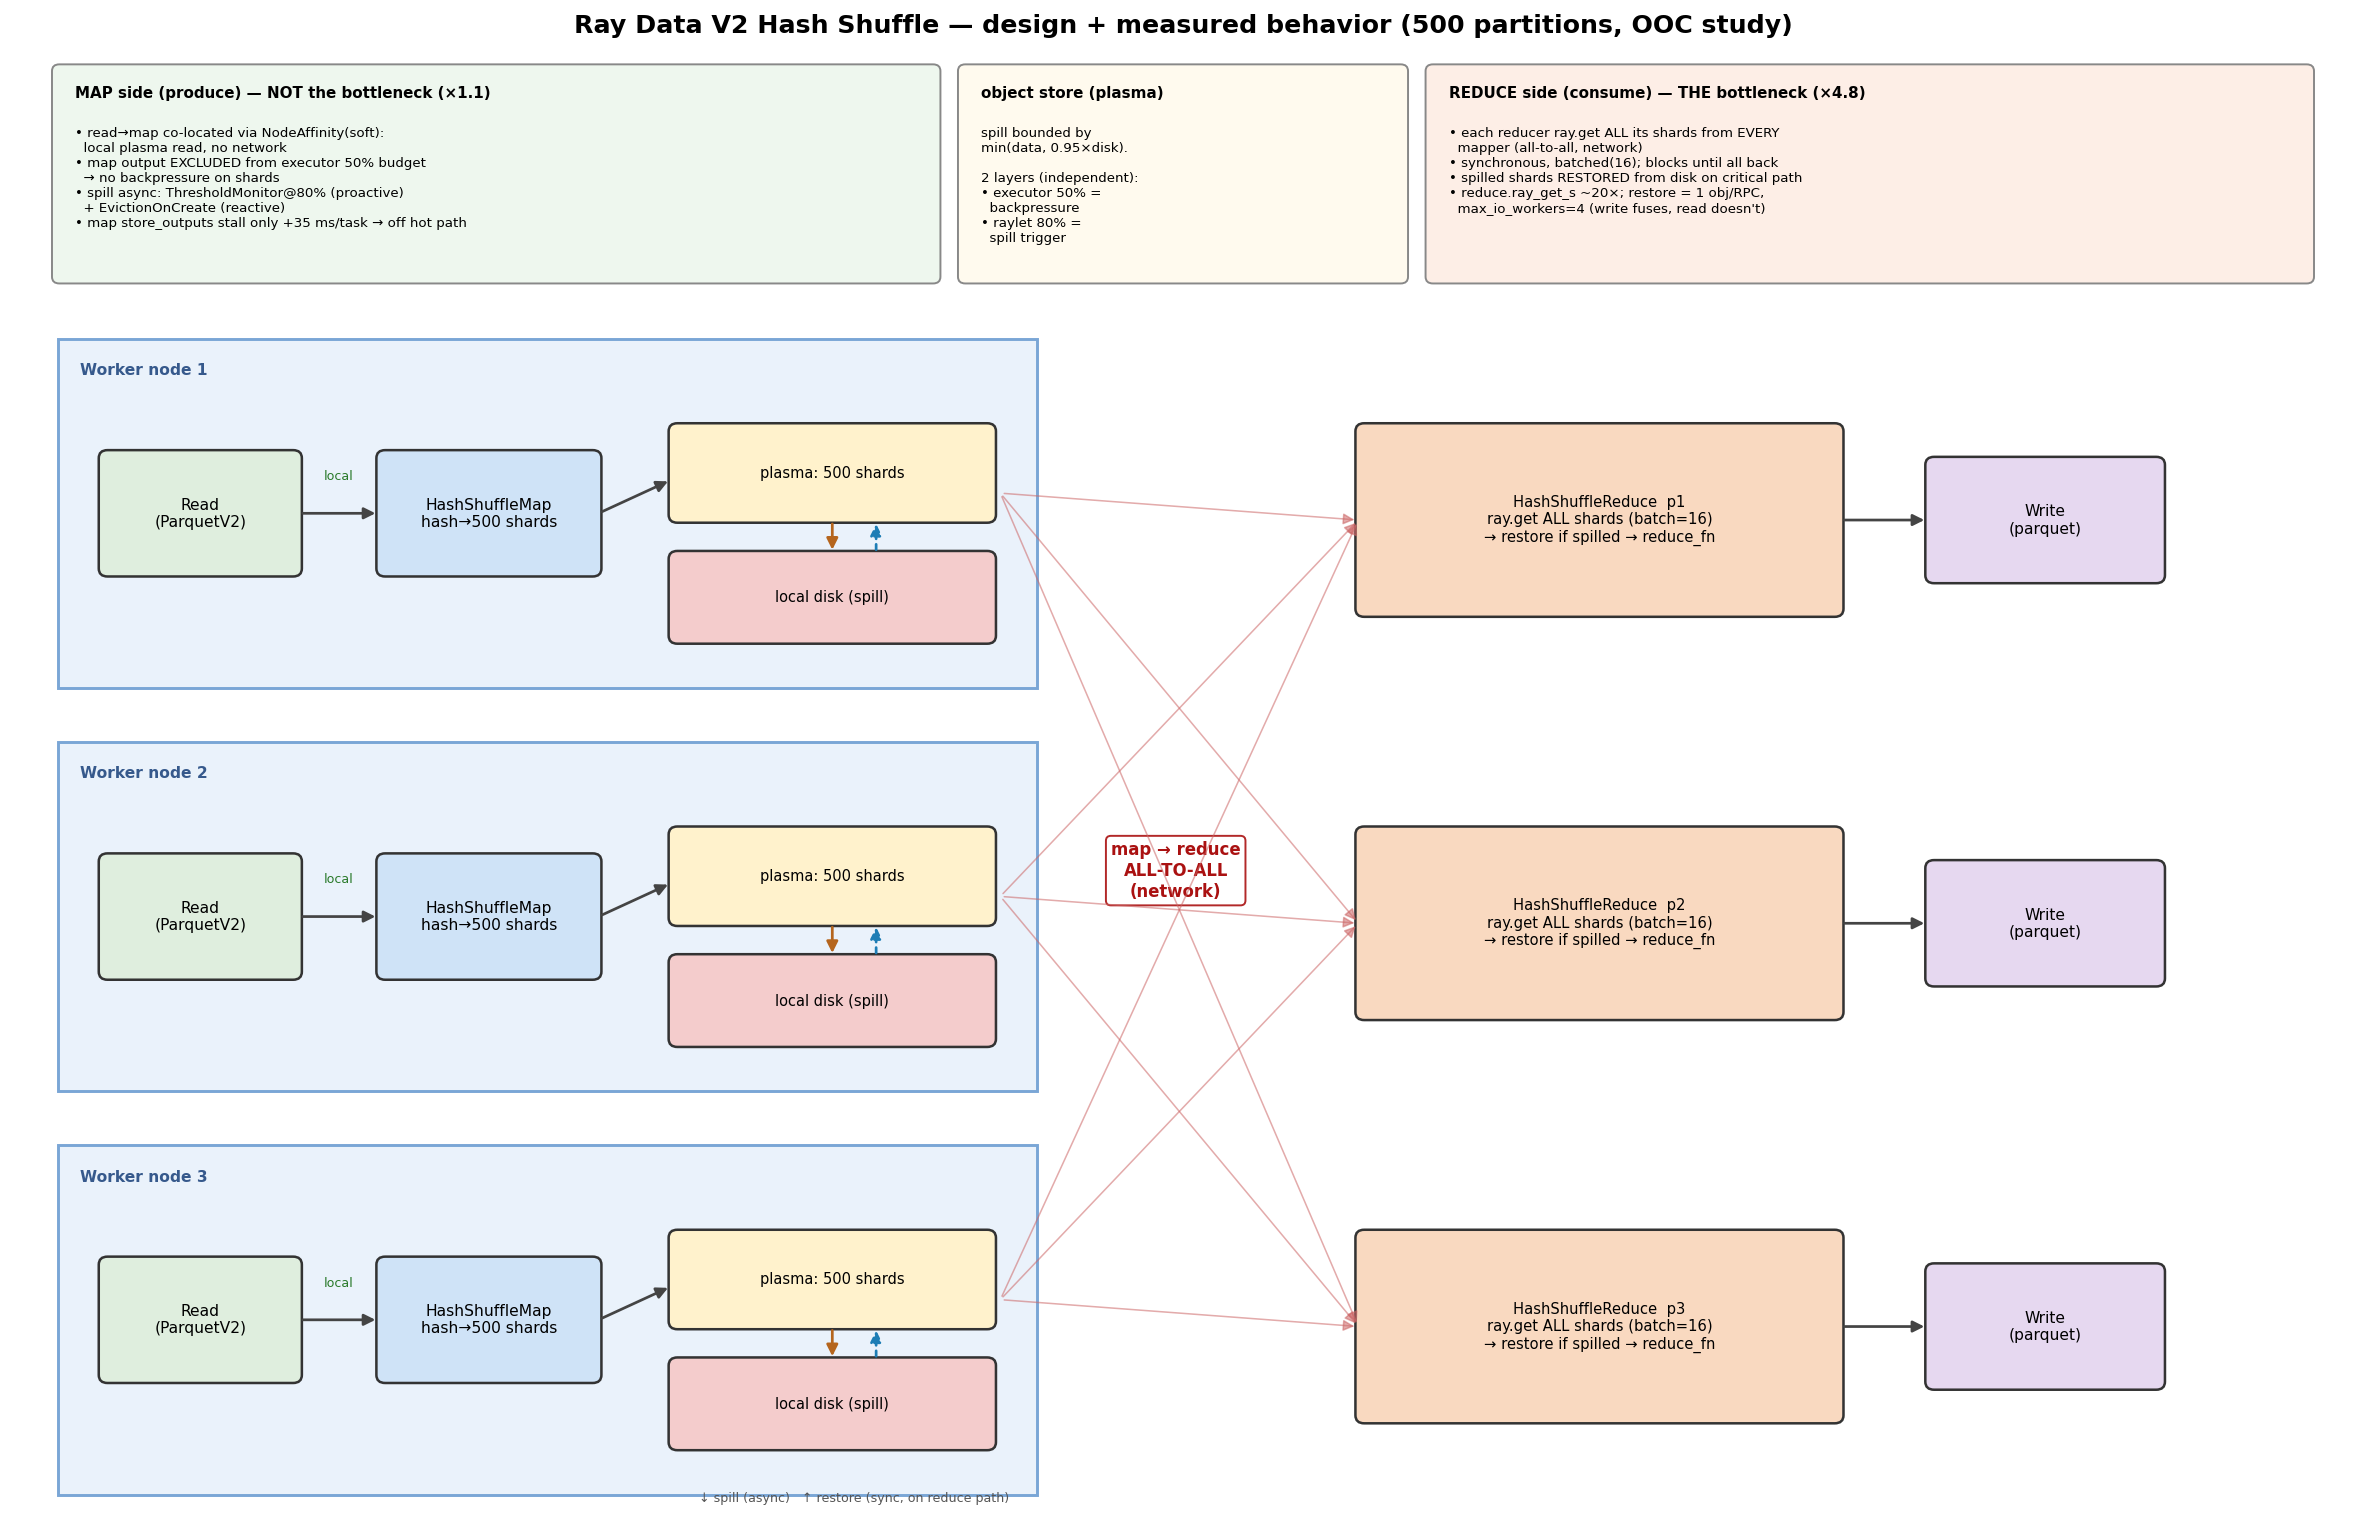
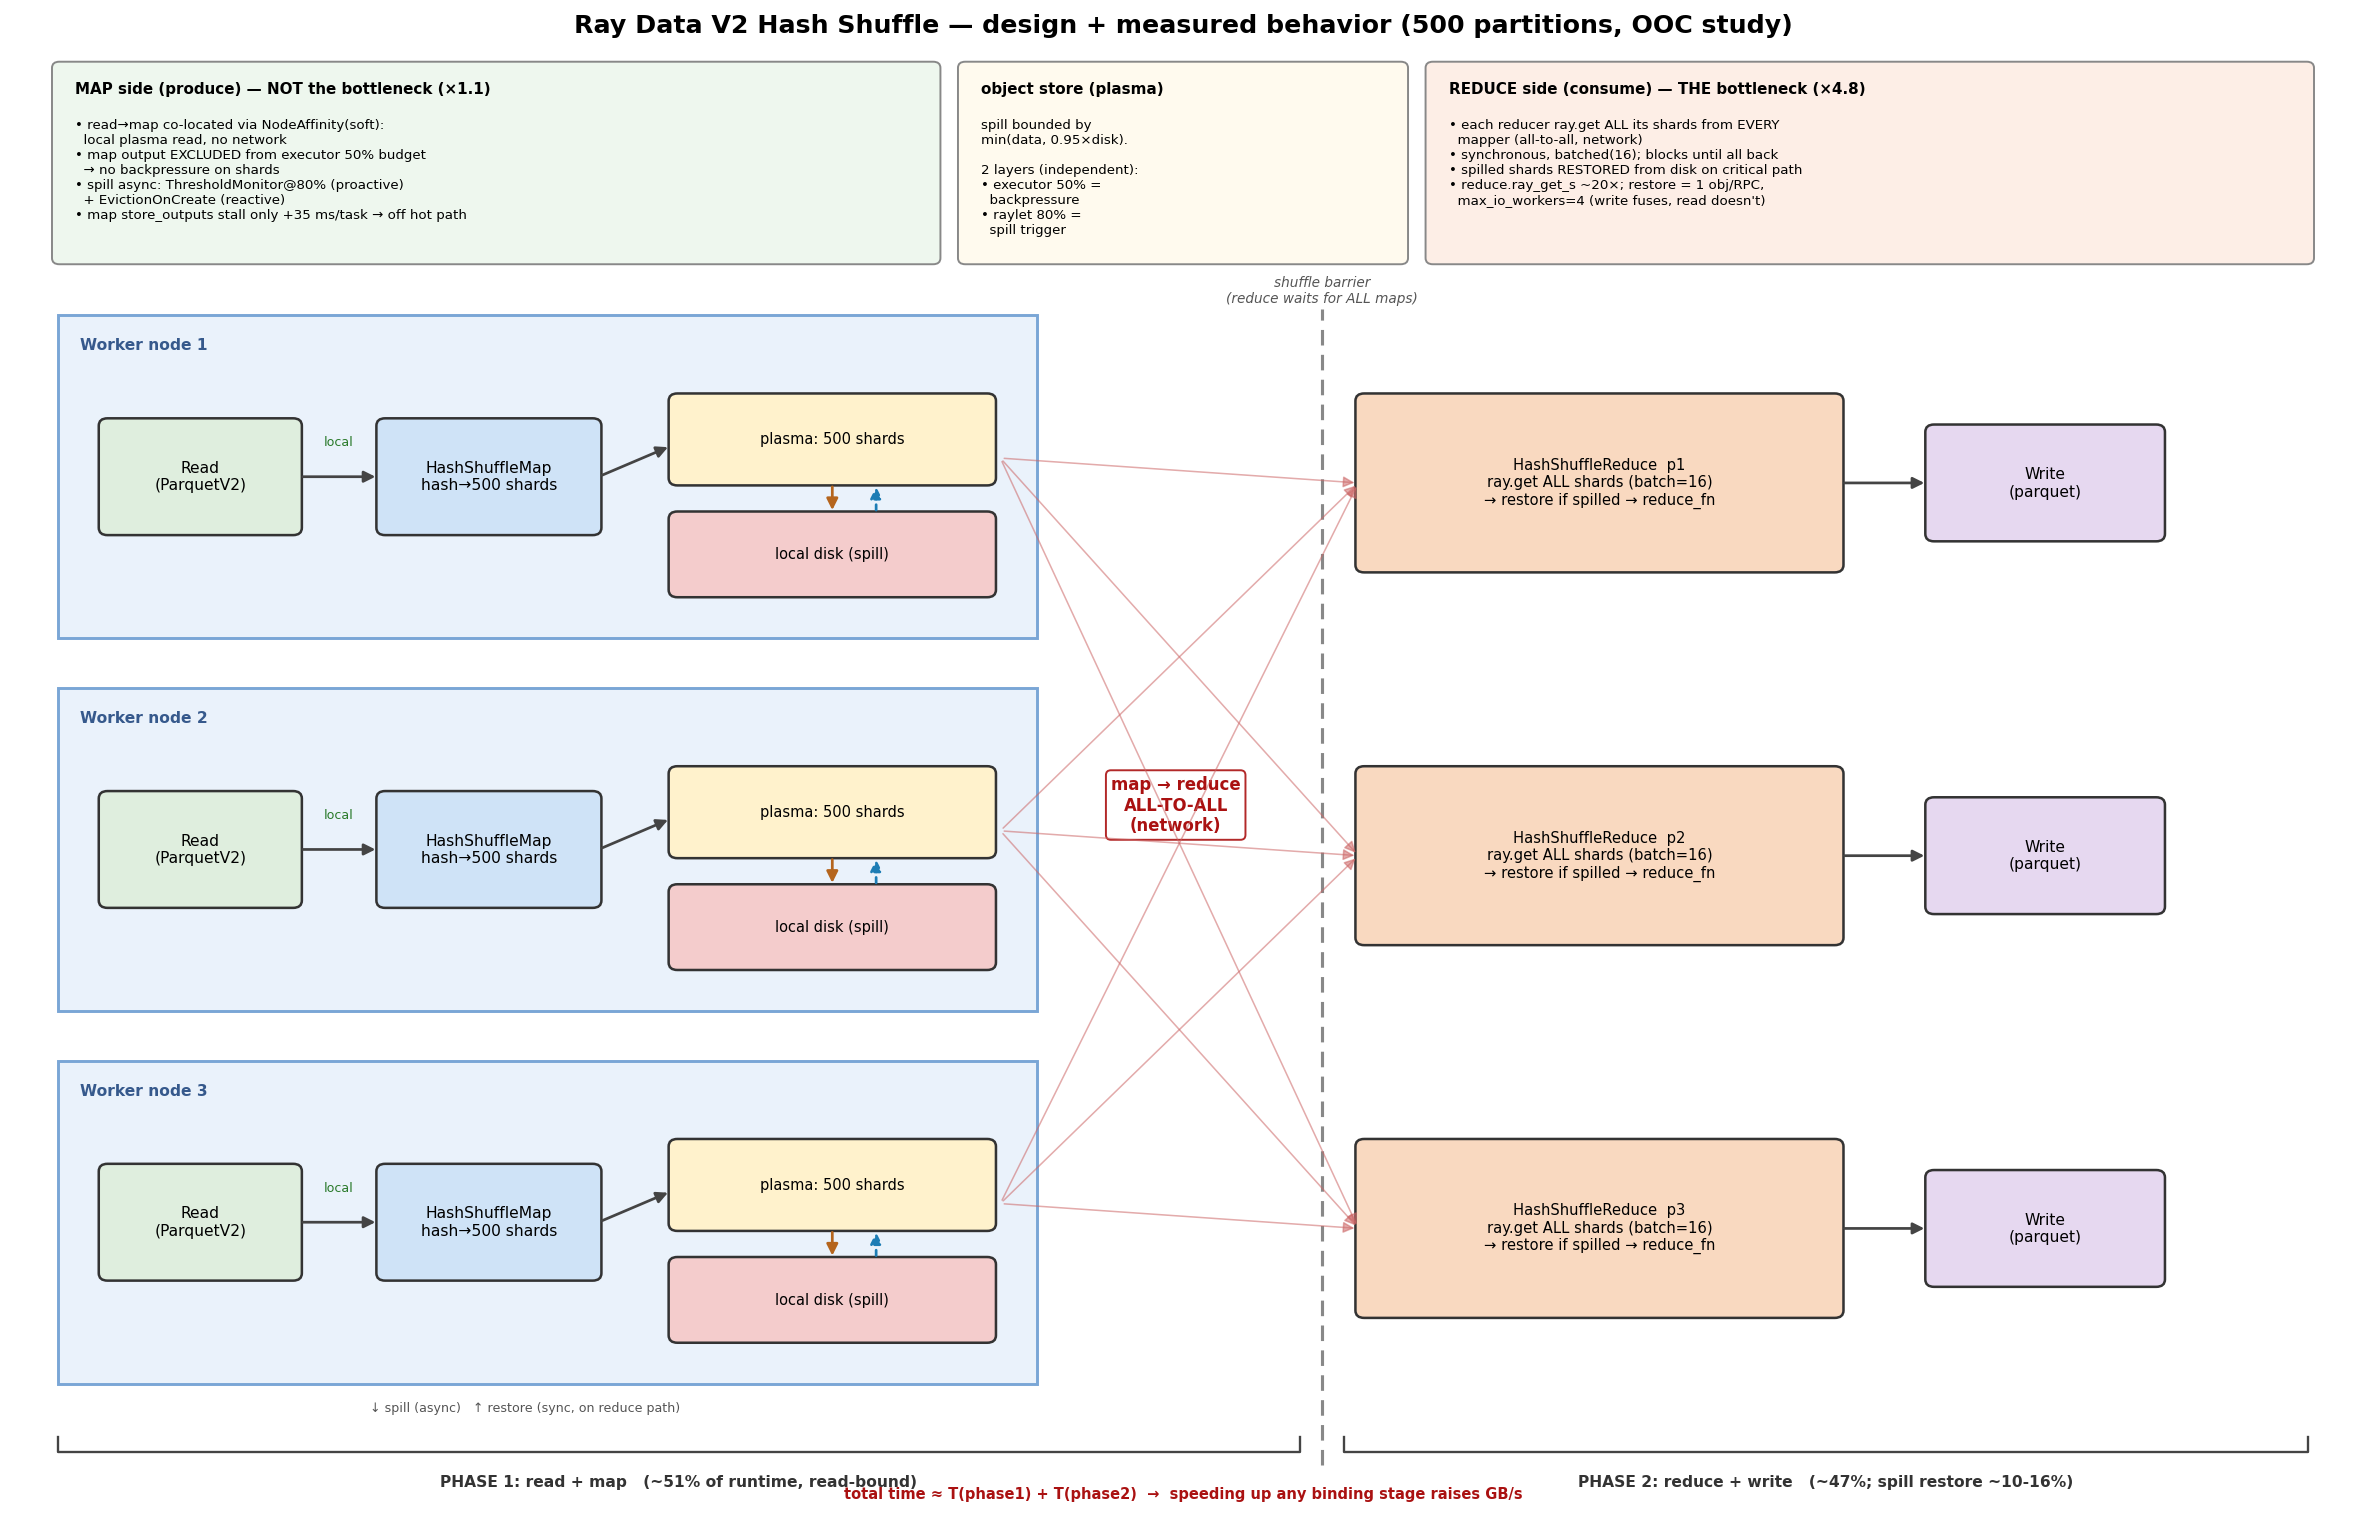
docs(data): corrected two-phase throughput model + reduce-fix list
- Methodology: add the corrected throughput model — shuffle barrier makes
  it total ≈ T(read+map) + T(reduce+write) (not one overlapped min());
  include WRITE as a stage; ceiling = current binding stage, so speeding
  up any binding stage raises GB/s by ~its time-share. 512GB shares:
  phase1 ~51% (read-bound), phase2 ~47% (reduce restore ~10-16% + write).
- Methodology: add "Reduce restore path — inefficiencies & fixes" section
  (no fetch/decode overlap, batch=16 pull window, head-of-line blocking,
  max_io_workers=4, write/read fusing asymmetry, tiny shards) with
  file:line refs and the #1+#4 high-impact combo.
- design plot: annotate shuffle barrier + PHASE 1/2 brackets and shares.

diff --git a/release/nightly_tests/dataset/plot_shuffle_design.py b/release/nightly_tests/dataset/plot_shuffle_design.py
@@ -30,7 +30,7 @@ def main() -> None:
 
     fig, ax = plt.subplots(figsize=(17, 11))
     ax.set_xlim(0, 16)
-    ax.set_ylim(0, 11)
+    ax.set_ylim(-0.9, 11)
     ax.axis("off")
     ax.set_title("Ray Data V2 Hash Shuffle — design + measured behavior (500 partitions, OOC study)",
                  fontsize=13, fontweight="bold", y=0.99)
@@ -96,8 +96,23 @@ def main() -> None:
          "• reduce.ray_get_s ~20×; restore = 1 obj/RPC,\n  max_io_workers=4 (write fuses, read doesn't)", "#fdeee6")
 
     # legend for spill arrows
-    ax.text(5.75, 0.05, "↓ spill (async)   ↑ restore (sync, on reduce path)", fontsize=6.5,
+    ax.text(3.5, -0.12, "↓ spill (async)   ↑ restore (sync, on reduce path)", fontsize=6.5,
             color="#555", ha="center")
+
+    # shuffle barrier between phase 1 and phase 2
+    ax.plot([8.95, 8.95], [-0.55, 8.75], ls=(0, (5, 3)), color="#888", lw=1.6, zorder=2)
+    ax.text(8.95, 8.78, "shuffle barrier\n(reduce waits for ALL maps)", ha="center",
+            va="bottom", fontsize=7, color="#555", style="italic")
+
+    # phase brackets along the bottom (total = T(read+map) + T(reduce+write))
+    def bracket(x0, x1, y, label):
+        ax.plot([x0, x0, x1, x1], [y + 0.12, y, y, y + 0.12], color="#444", lw=1.2)
+        ax.text((x0 + x1) / 2, y - 0.18, label, ha="center", va="top", fontsize=8,
+                fontweight="bold", color="#333")
+    bracket(0.3, 8.8, -0.45, "PHASE 1: read + map   (~51% of runtime, read-bound)")
+    bracket(9.1, 15.7, -0.45, "PHASE 2: reduce + write   (~47%; spill restore ~10-16%)")
+    ax.text(8.0, -0.82, "total time ≈ T(phase1) + T(phase2)  →  speeding up any binding stage raises GB/s",
+            ha="center", fontsize=7.5, color="#a11", fontweight="bold")
 
     fig.tight_layout()
     fig.savefig(args.out, dpi=140, bbox_inches="tight")

diff --git a/release/nightly_tests/dataset/OOC_SHUFFLE_ANALYSIS_METHODOLOGY.md b/release/nightly_tests/dataset/OOC_SHUFFLE_ANALYSIS_METHODOLOGY.md
@@ -92,6 +92,62 @@ python analyze_scheduling.py --progress-log benchmark_logs/sweep_500p/sweep.log 
   not a block — and widening read wouldn't help end-to-end since reduce+write
   dominate the back half. Net: the only large spill cost is reduce restore.
 
+## Throughput model (corrected)
+
+The job is NOT a single fully-overlapped pipeline. The hash-shuffle **barrier**
+(a reducer needs every mapper's shard for its partition) splits it into two
+largely-sequential phases:
+
+    total_time  ≈  T(read+map)  +  T(reduce+write)        # barrier between them
+    GB/s        =  data / total_time
+
+So the ceiling is **the current binding stage's rate, across ALL stages**
+— read (S3 + decode), map (partition + encode), reduce (restore + decode +
+reduce_fn), AND **write** (encode + local-disk write). It is NOT a hard wall:
+speeding up any stage shortens its phase and **raises GB/s by ~that stage's
+share of total time** (whack-a-mole — the next stage then binds). Data size
+alone does not raise the ceiling; optimizing a binding stage does.
+
+Measured shares at 512 GB (from stage spans; phases overlap internally):
+
+| phase | stages | span | ~share | binding factor |
+|---|---|---|---|---|
+| 1 | read (~124s) ‖ map (~112s) | ~124 s | **~51%** | read (S3 + parquet decode) |
+| 2 | reduce (~108s) ‖ write (~113s) | ~113 s | **~47%** | reduce restore + write |
+
+Within phase 2, reduce restore (`ray_get` wall ~47 s, spill-portion ~25-40 s)
+≈ **10-16% of total**. So at 512 GB: **read is the biggest single lever
+(~51%)**, write is a non-trivial phase-2 cost (easy to overlook), and efficient
+spill buys ~10-16% now — a share that **grows super-linearly with data** as
+restore degrades, eventually becoming the dominant lever (and bending the GB/s
+plateau downward if left unfixed).
+
+## Reduce restore path — inefficiencies & proposed fixes
+
+Where the dominant spill cost lives and how to cut it (highest-value first):
+
+1. **No fetch/decode overlap** (`_shuffle_tasks.py:423-435`): strictly serial
+   `ray.get(batch)` → decode → next `ray.get`; no prefetch / `ray.wait`. While
+   decoding, the raylet isn't restoring the next batch. *Fix:* prefetch the next
+   batch / consume via `ray.wait` in completion order → hide restore behind decode.
+2. **In-flight restore window capped at batch=16** (`_REDUCE_BATCH_SIZE`, line 47):
+   only 16 refs ever requested at once. *Fix:* decouple the pull window (large,
+   to saturate disk) from the decoded-accumulator memory cap (small).
+3. **Head-of-line blocking within a batch**: `ray.get(16)` waits for the slowest
+   of 16 (one spilled straggler stalls 15 in-memory). *Fix:* `ray.wait`.
+4. **`max_io_workers=4`** (`ray_config_def.h:719`), shared by spill AND restore →
+   ≤4 concurrent restores/node. *Fix:* raise it to match NVMe parallelism.
+5. **Write/read fusing asymmetry**: spill fuses ≤2000 objs / 100 MB into one file
+   (`min_spilling_size`, `max_fused_object_count`), but `AsyncRestoreSpilledObject`
+   restores **1 object per RPC** (`local_object_manager.cc:574`) → many small reads
+   of the median ~0.7 MiB shard. *Fix:* batch-restore by fused file (core change).
+6. **Tiny shards** (median 0.7 MiB) amplify per-object RPC/io-worker overhead.
+   *Fix:* coarser partitioning / fewer-larger shards (trade vs parallelism/skew).
+
+Cheapest high-impact combo: **#1 + #4** (overlap restore with decode + raise
+restore concurrency). Verify with the no-spill counterfactual (bump object store,
+rerun 512 GB, watch `reduce.ray_get_s` collapse).
+
 ## File index (under benchmark_logs/)
 
 - `sweep_500p/summary_table.{md,csv}` — per-stage wall + shuffle sub-timers, all sizes (Ray Data `ds.stats`)
